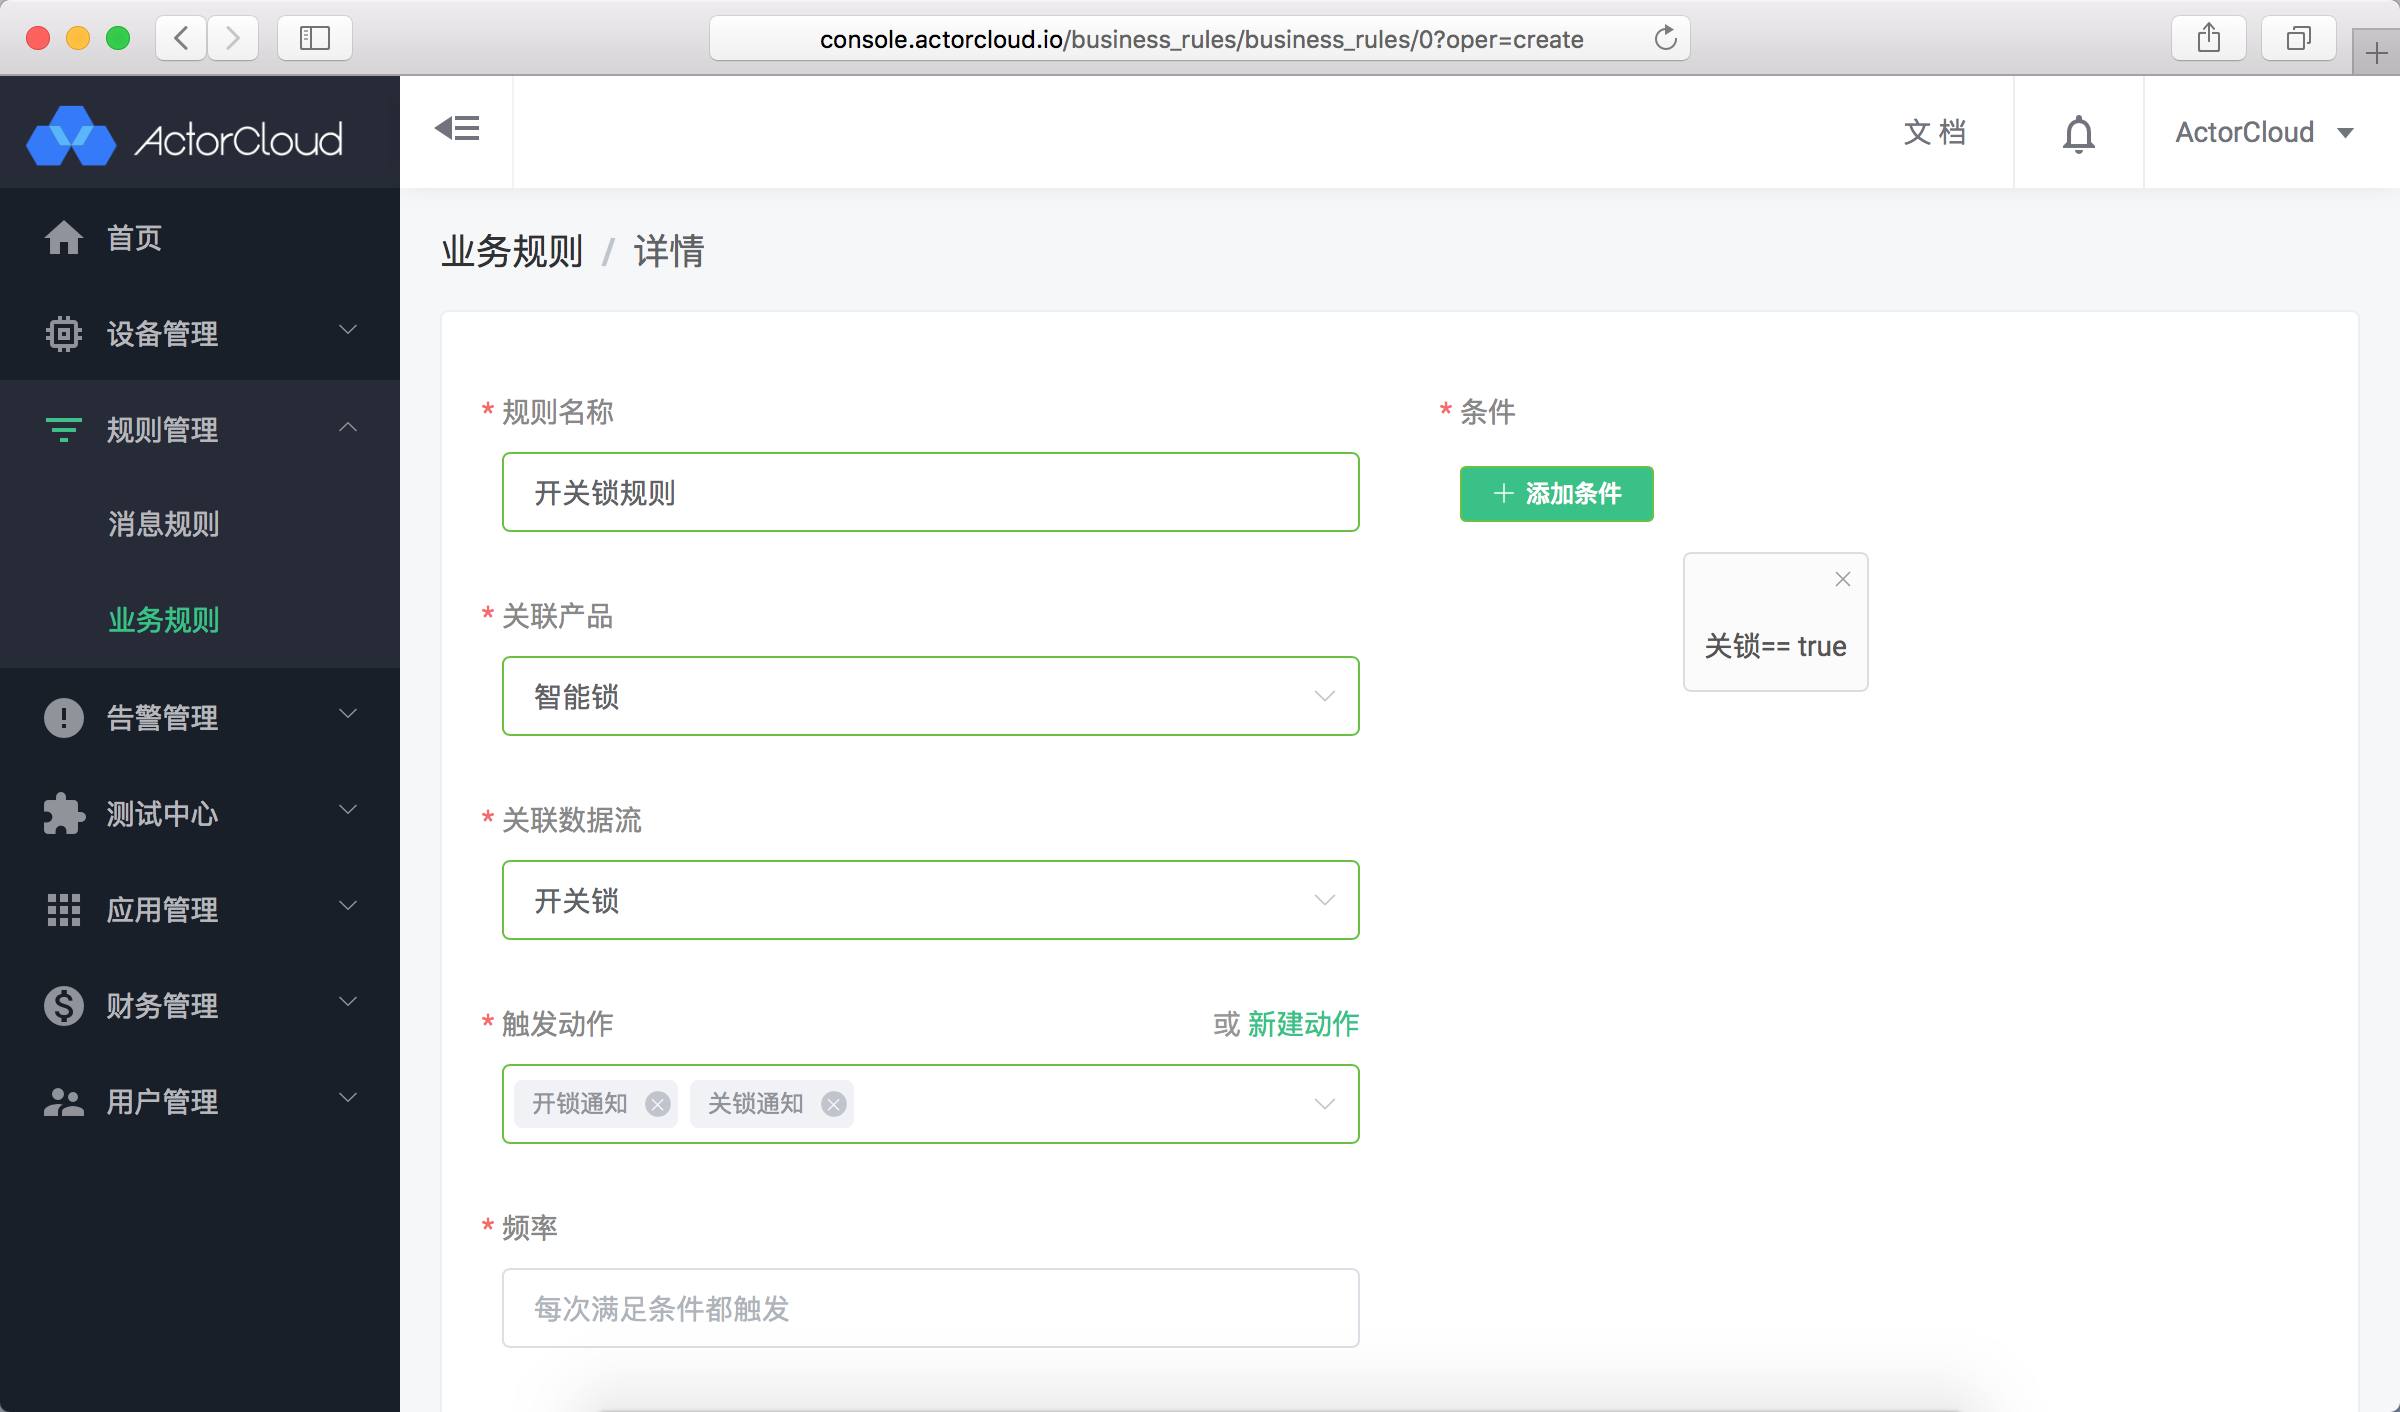
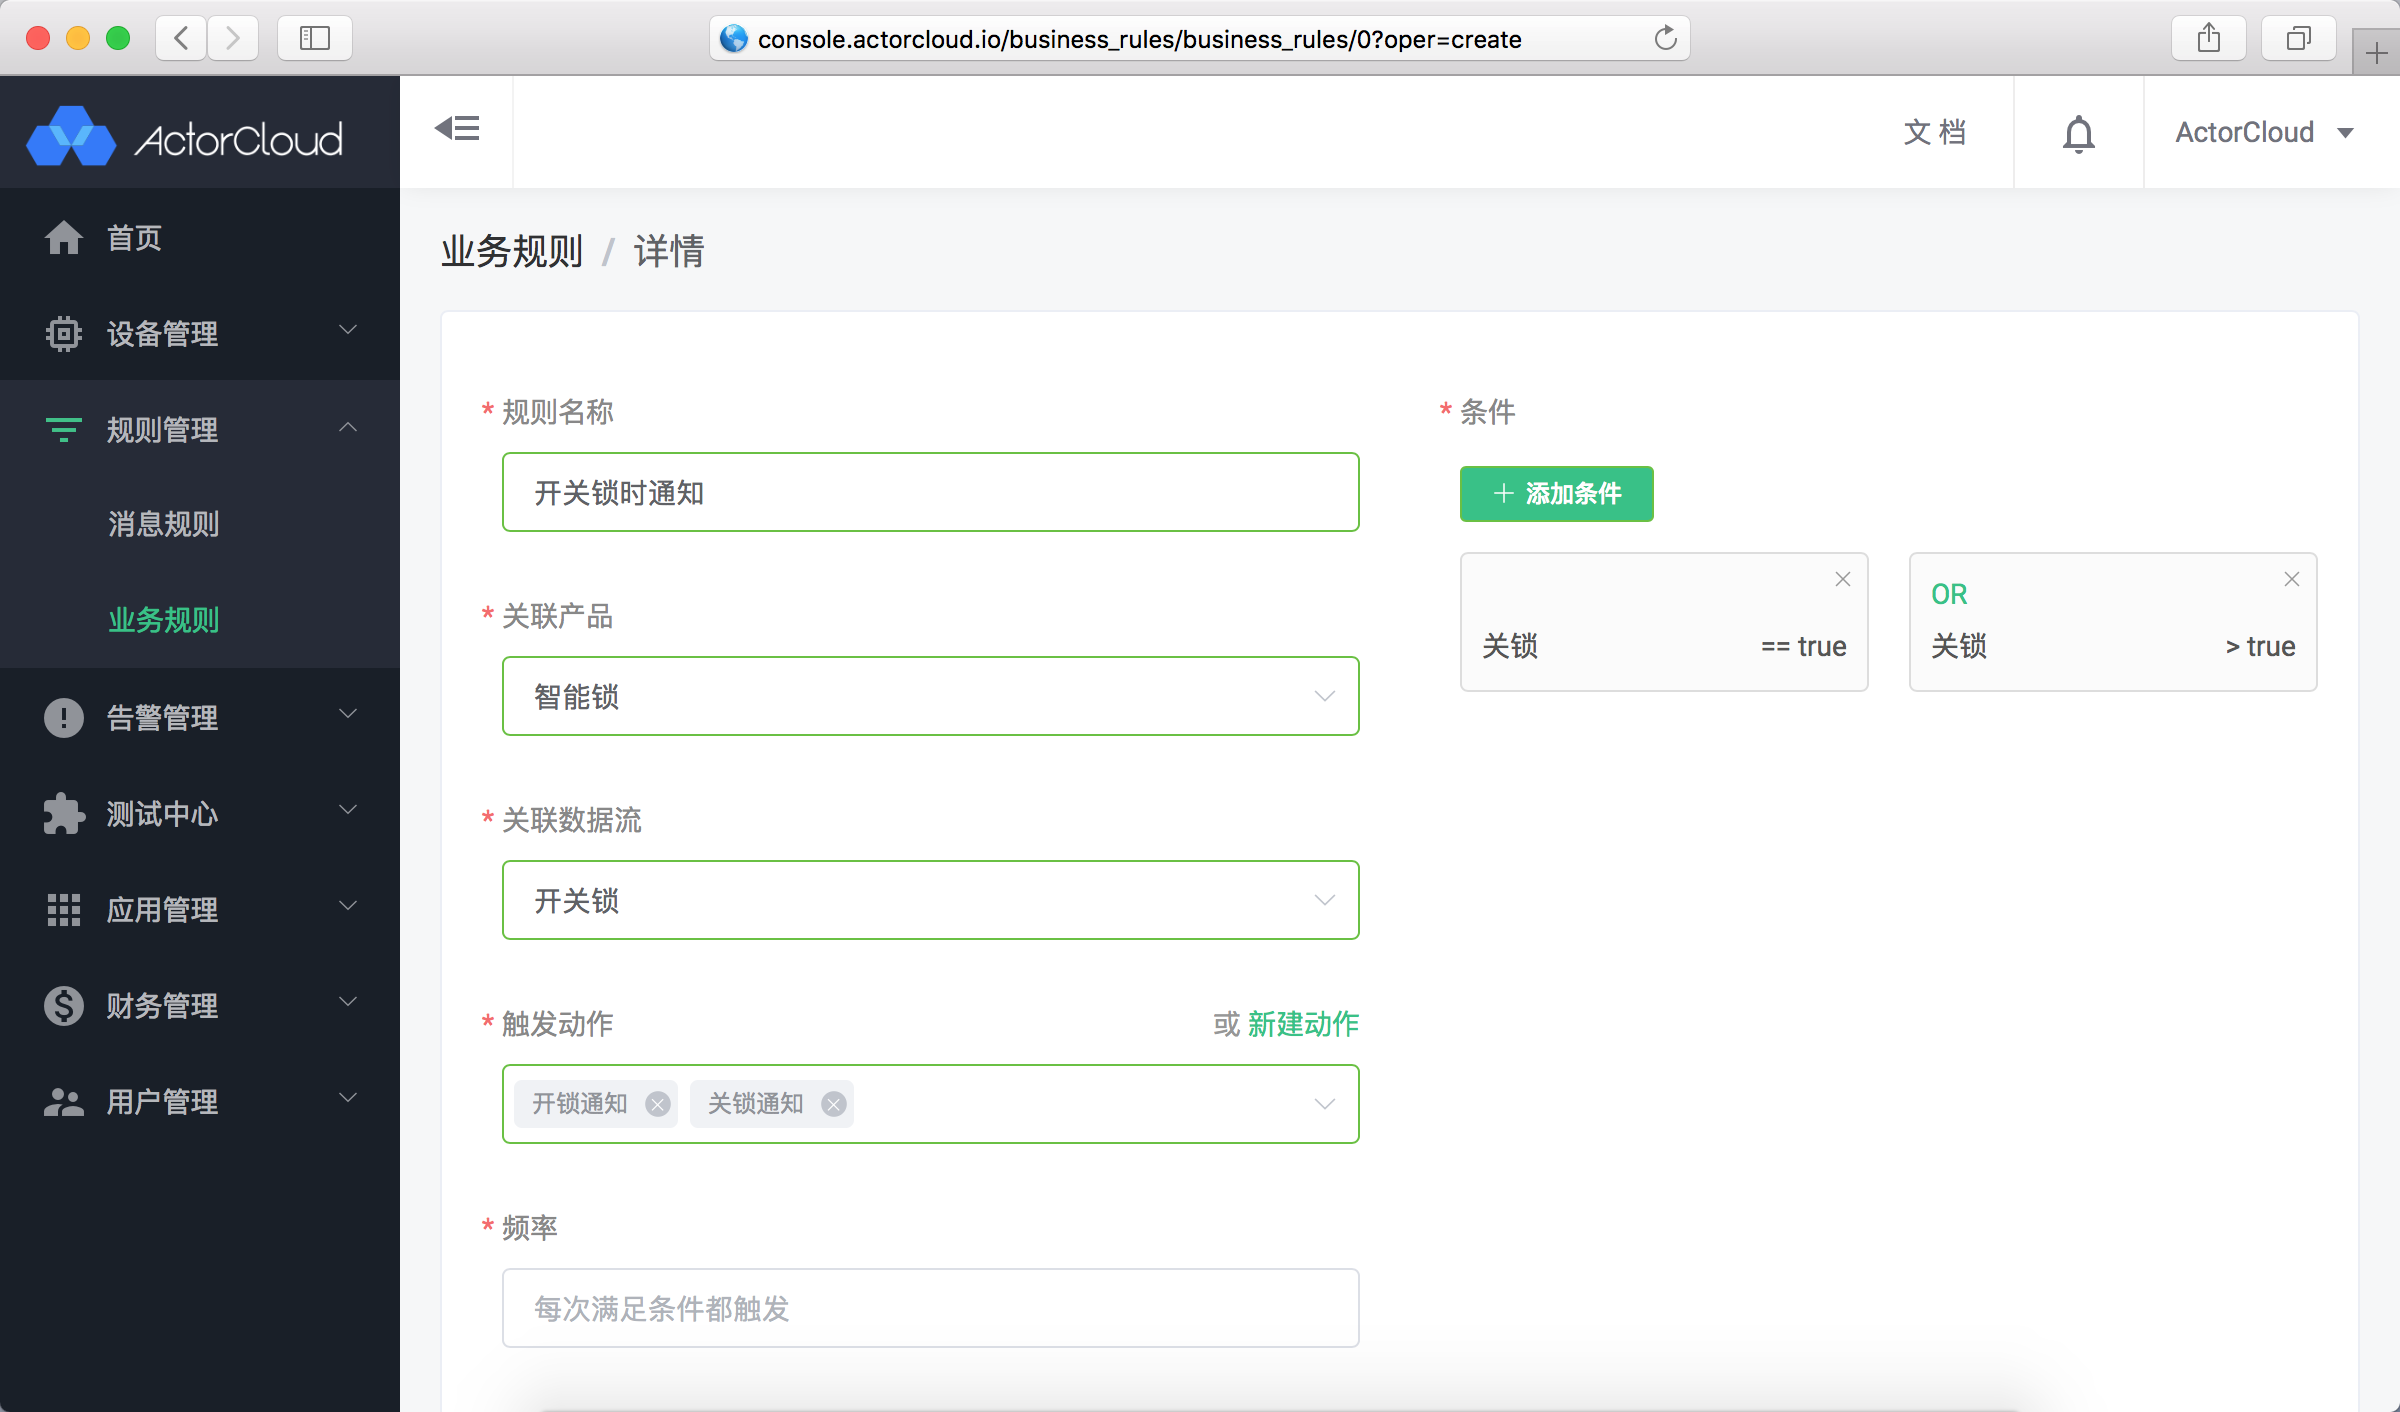
fix(message rules): 更正部分文档内容

diff --git a/rule_engine/business_rules.md b/rule_engine/business_rules.md
@@ -14,7 +14,7 @@
 
 - 关联产品：该条业务规则应用的产品；
 
-- 关联数据流：业务规则预定匹配校验的数据流；
+- 关联数据流：业务规则将应用与该数据流，若是规则条件成立，将触发相应动作；
 
 - 触发动作：当数据流满足定义时触发的动作，可多选；
 
@@ -22,14 +22,14 @@
 
   - 每次满足条件都触发：一旦数据流满足条件，立即触发动作产生，数据流较密集时将触发多次动作；
 
-  - 满足频率时触发：当数据流每分钟/每小时满足条件次数达到限制后触发动作；
+  - 满足频率时触发：当数据流多长时间内满足条件多少次时触发动作；
 
   - 条件持久存在时触发：当数据流满足条件持续若干分钟/小时后触发动作。
 
 - 条件：对数据流里的数据校验规则，一个条件包含以下要素：
   - 功能点：该条件校验的功能点，ActorCloud 将使用该功能点的数值进行条件匹配；
   - 运算符：功能点中的数值与比较对象的比较规则，包含**大于**、**大于等于**、**小于**、**小于等于**、**等于**、**不等于**六个比较规则；
-  - 比较对象：功能点中的数值比较的对象，可选静态值与该产品下另一个功能点，选择静态值时需手动输入要比较的静态值；
+  - 比较对象：可选静态值与该数据流下另一个功能点，选择静态值时需手动输入要比较的静态值；
   - 条件间关系：一个规则有多个条件时可选该项，表示条件与条件之间的运算关系。
 
 ![](/assets/business_rule_create.png)

diff --git a/map_manage/map_manage.md b/map_manage/map_manage.md
@@ -2,9 +2,6 @@
 
 **ActorCloud** 支持将设备位置在地图上标注显示，依次点击**设备管理** -> **地图管理**可在地图界面检索查看设备位置信息。
 
-考虑到浏览器性能问题，地图管理默认显示至多 1000 个最新创建且有位置信息的设备。
-同时该页面支持按照设备名称、设备编号、所属产品、所属分组、认证方式等进行精确/模糊搜索展示。
-
-点击地图上设备位置标注点可以查看设备详细信息。
+该页面支持按照设备名称、设备编号、所属产品、所属分组、认证方式等进行精确/模糊搜索展示。若标注点为红色则表明设备离线，绿色为设备在线。点击地图上设备位置标注点可以查看设备详细信息。
 
 ![](/assets/map_manage.png)
